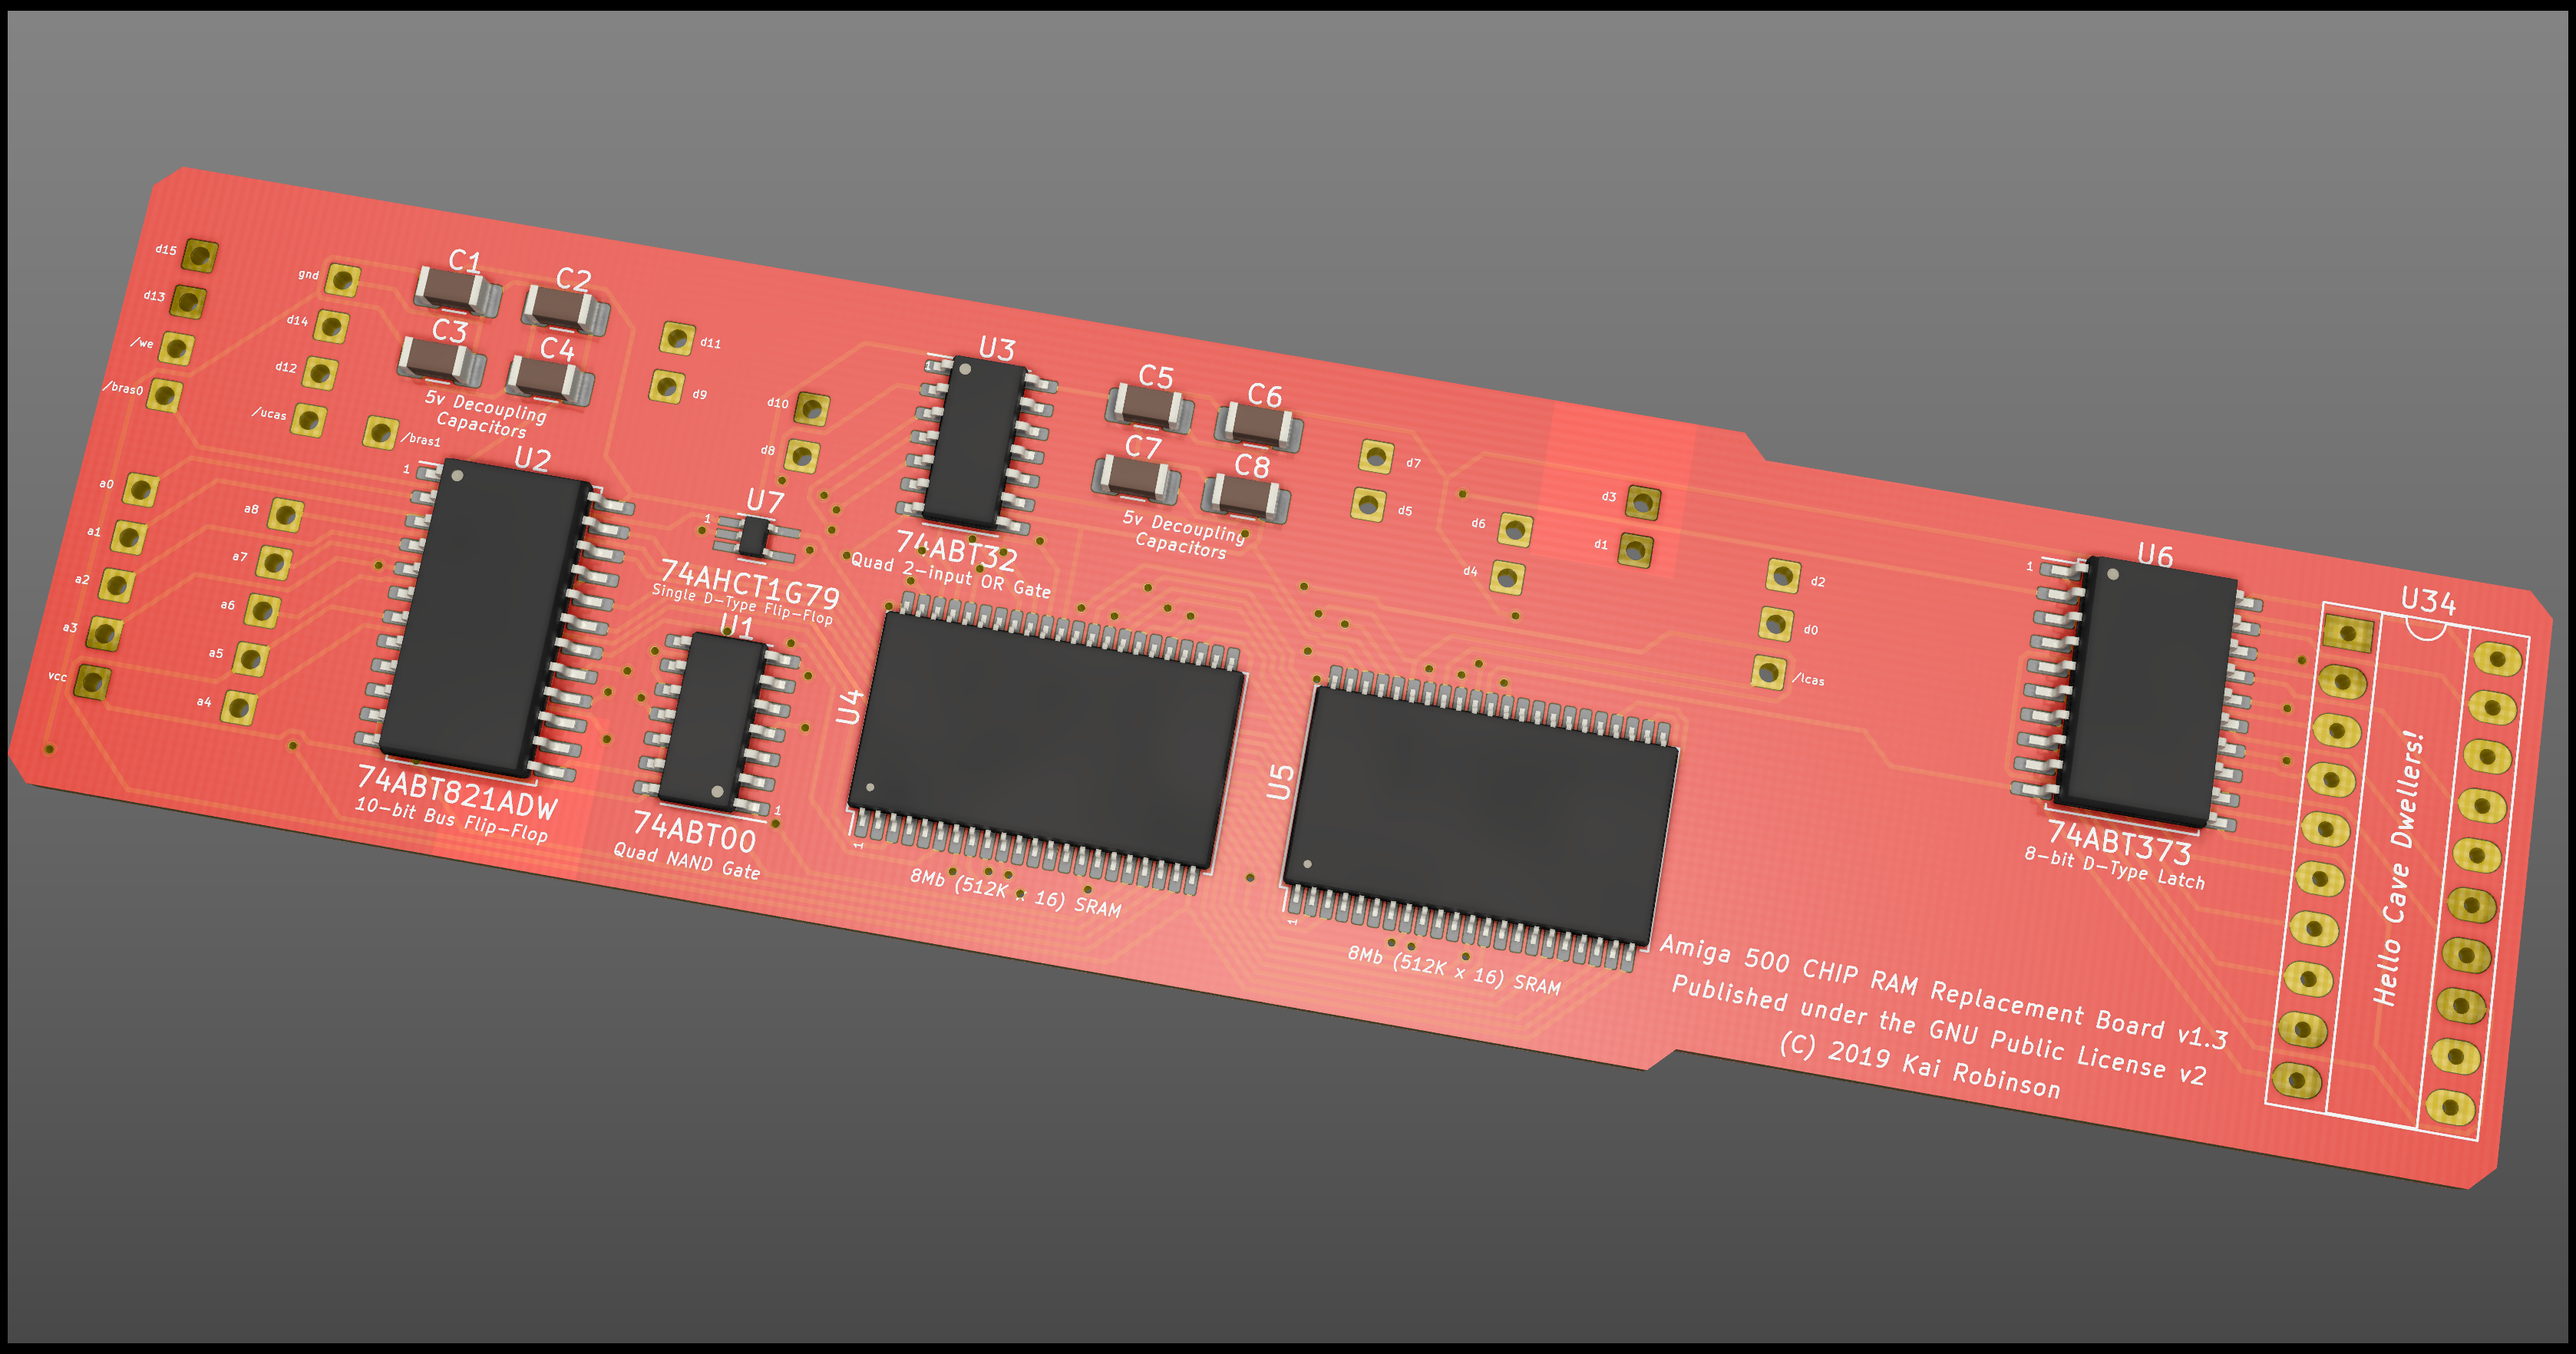
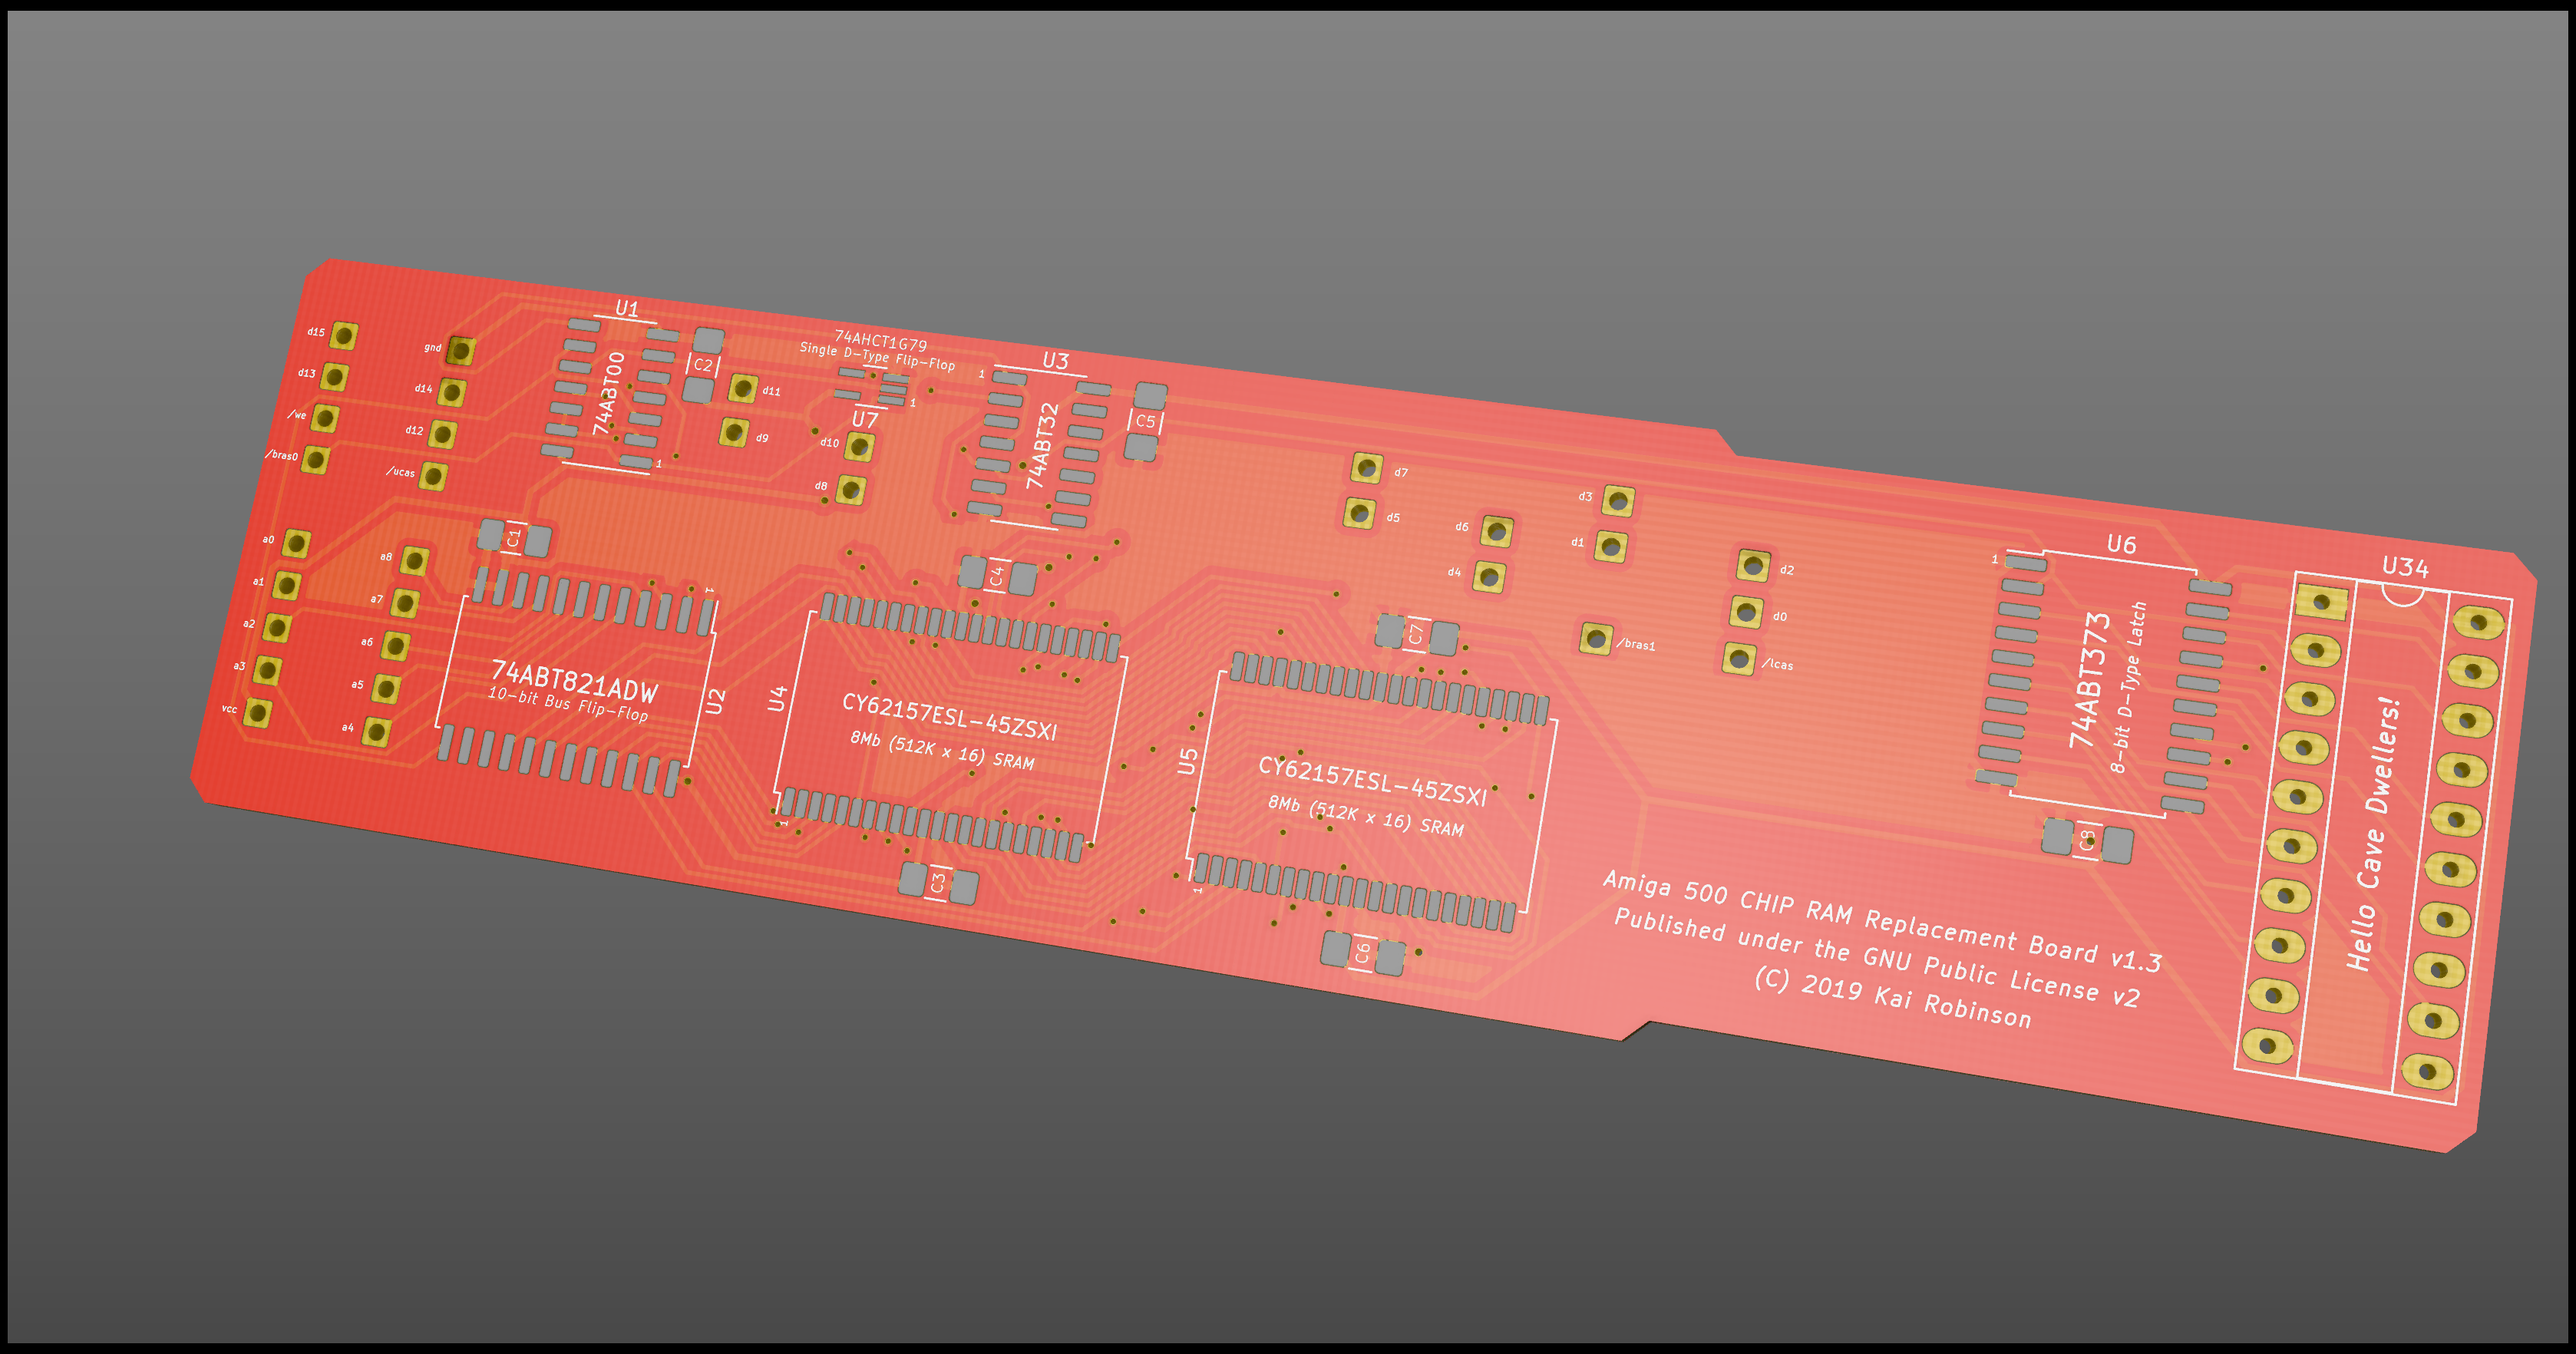
Updating images

Changed region(s): [[0.0, 0.1247, 0.9917, 0.873], [0.7128, 0.343, 0.8057, 0.3741], [0.6508, 0.3118, 0.6818, 0.343]]

diff --git a/schematics/v1.3/readme.md b/schematics/v1.3/readme.md
@@ -1,5 +1,9 @@
 ![2MB SRAM Board](SRAM%20Board%202MB%20Orth1.png?raw=true "2MB SRAM Board")
 
+![2MB SRAM Board](SRAM%20Board%202MB%20Orth2.png?raw=true "2MB SRAM Board")
+
+![2MB SRAM Board](SRAM%20Board%202MB%20OrthBottom0.png?raw=true "2MB SRAM Board Bottom")
+
 This is a significantly revised design based around two SRAM chips, using the buffered A9 input from U34 to provide sufficient address lines. This board will give 2MB CHIP RAM in an A500+ & the trapdoor expansion will be rendered useless for any memory expansions.
 
 This board also has seen the design optimized significantly for low z-height, meaning it shouldn't foul the keyboard in a stock A500+ case. 
